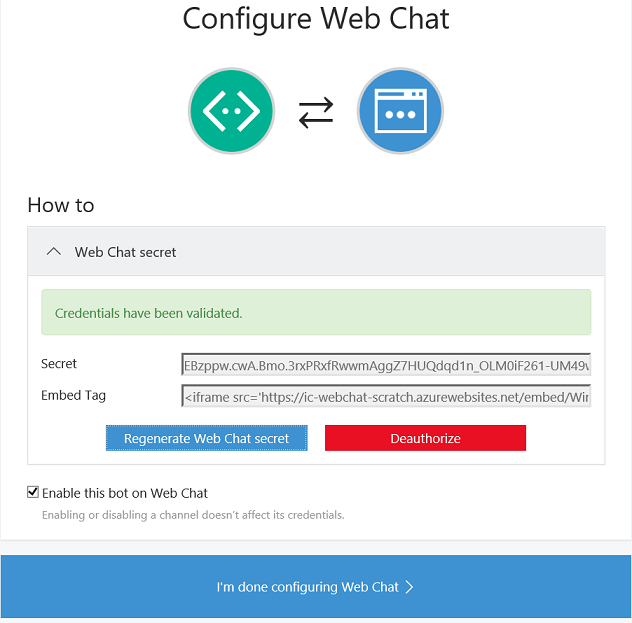
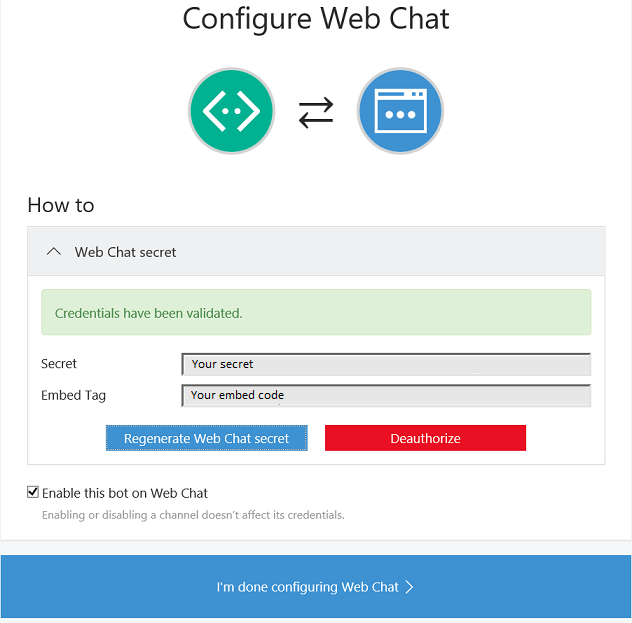
Update chat control instructions

Changed region(s): [[0.3006, 0.5795, 0.932, 0.6709]]

diff --git a/Connector/tools/embed-chat-control.md b/Connector/tools/embed-chat-control.md
@@ -9,14 +9,14 @@ parent2: Tools
 
 ## Overview
 
-Microsoft's chat widget is a messaging application that allows you to chat with the bot built using Microsoft BotFramework. Each bot created using the BotFramework has this chat widget in it's Bot page. The chat widget can be embedded in any website, allowing you to have your bot available on anywhere.
+The Bot Framework chat widget allows you to chat with your bot through the Bot Connector. The chat widget may be enabled on the bot's landing page in the directory, and you may embed the web chat control in your own page.
 
-The Chat widget supports [Markdown](https://en.wikipedia.org/wiki/Markdown).
+The Chat widget supports [Markdown](https://en.wikipedia.org/wiki/Markdown) and images.
 
 ## Flow
 ![Chat widget Overview](/images/chatwidget-overview.png)
 
-## Step 1 : Get your bot secret key
+## Step 1 - Get your bot secret key
 1.	Go to [https://dev.botframework.com/#/bots](https://dev.botframework.com/#/bots)
 2.	Click on your bot
 3.	Look for “Web Chat” in the Channels section
@@ -29,65 +29,60 @@ Click on Edit for Web chat and press Generate Web Chat Secret
 
 Copy the generated secret and embed tag and press “I'm done configuring Web Chat”
 
-## Step 2 : Embed the chat widget in your website
+## Step 2 - Embed the chat widget in your website
 
-Chat widget can be embedded in 2 ways
+Chat widget can be embedded in 2 ways:
 
-### Option 1 - Embed the chat widget in your website using secret
-<ol>
-<li>The Web Chat secret you got from Step 1 is the unique identifier for your bot. Using this secret to embed the chat control will disclose the bot secret and can be used by anyone to embed chat widget for your bot on any website</li>
-<li>If you want to use secret for chat widget, paste the embed tag from Step 1 in your website and adjust the styling for the iframe element as per the requirement. Example:</li>
+### Option 1 - Keep your secret hidden, exchange your secret for a token, and generate the embed
 
-{% highlight html %}
+Use this option if you can make a server-to-server call to exchange your web chat secret for a temporary token,
+and if you want to discourage other websites from embedding your bot in their pages.
 
-    <iframe src="https://webchat.botframework.com/embed/<AppId>?s=<secret>"></iframe>
+Note that this does not prevent another website from embedding your bot in their pages, but it makes it substantially
+harder than option 2 below.
 
-{% endhighlight %}
-
-<li>If you do not want your bot secret to be disclosed, use Option 2</li>
-</ol>
-
-### Option 2 - Embed the chat widget in your website using token
+To exchange your secret for a token and generate the embed:
 
 <ol>
-<li>You can embed chat widget using token if you want your bot only on your specific websites</li>
-<li>You can generate your bot token using the Web Chat secret from Steps1 as below
-<ul>
-<li>Issue a POST request to "https://webchat.botframework.com/api/conversations" passing the Web Chat secret as the Authorization header</li>
-<li>Parse the json response and get the token</li>
-<li>Example code in javascript –</li>
-</ul>
-</li>
-
-{% highlight javascript %}
-
-    var token = null;
-    $.ajax({
-    type: 'POST',
-    url: 'https://webchat.botframework.com/api/conversations',
-    headers: { 'Authorization': 'BOTCONNECTOR ' + secret }
-    }).done(result => {
-    token = result.token;
-    })
-
-{% endhighlight %}
-<li>The generated token can be used on only one website for only one session. You need to automate above step for every invocation of your website</li>
+<li>Issue a server-to-server GET request to "https://webchat.botframework.com/api/tokens" and pass your web chat secret as the Authorization header</li>
+<li>The call will return a token good for one conversation. If you want to start a new conversation, you must generate a new token.
 <li>Embed the modified iframe tag in your website and adjust the styling for the iframe element as per the requirement. To use the token instead of the secret, use the IFrame like below:</li>
 </ol>
 
 {% highlight html %}
 
-    <iframe src="https://webchat.botframework.com/embed/<AppId>?t=<token>"></iframe>
+    <iframe src="https://webchat.botframework.com/embed/YOUR_BOT_ID?t=YOUR_TOKEN_HERE"></iframe>
 
 {% endhighlight %}
 
-## Step 3 : Chat with your Bot
+### Option 2 - Embed the chat widget in your website using secret
 
-This is how the chat widget looks like with below iframe styling
+Use this option if you are OK with other websites embedding your bot into their page. This option provides no protection against
+other developers copying your embed code.
+
+If you do not want other websites to host web chat with your bot, option 1 makes it more difficult to do so.
+
+To embed your bot in your web site by include your secret on your web page:
+
+<ol>
+<li>Copy the iframe embed code from the channel. See Step 1, above. Example:</li>
 
 {% highlight html %}
 
-    <iframe style="height:480px; width:402px" src="https://webchat.botframework.com/embed/qnatestbot?t=<token>"></iframe>
+    <iframe src="https://webchat.botframework.com/embed/YOUR_BOT_ID?s=YOUR_SECRET_HERE"></iframe>
+
+{% endhighlight %}
+
+<li>Replace YOUR_SECRET_HERE with the embed secret from the same page.</li>
+</ol>
+
+## Step 3 - Style the chat control
+
+You may change the chat control's size by adding height and width to the style element.
+
+{% highlight html %}
+
+    <iframe style="height:480px; width:402px" src="https://webchat.botframework.com/embed/YOUR_BOT_ID?t=YOUR_TOKEN_HERE"></iframe>
 
 {% endhighlight %}
 
